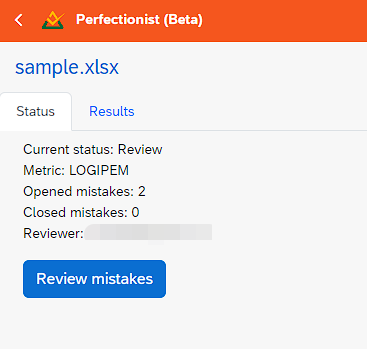
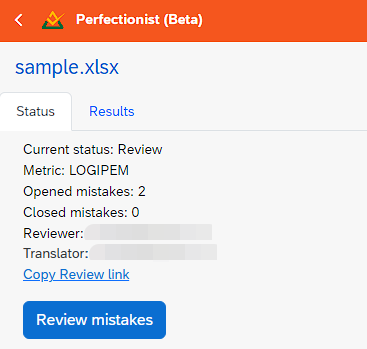
sum

Changed region(s): [[0.0599, 0.6877, 0.4496, 0.9742]]

diff --git a/docs/perfectionist.md b/docs/perfectionist.md
@@ -74,9 +74,9 @@ When the **Sample** button is clicked, **Perfectionist** will generate a randomi
 
 ![perf3](perfnew8.png)
 
-As a **Requestor**, you need to assign a **Reviewer** for each of the project's tasks by submitting their email. The dialog window to do that is called by clicking the **Assign** button in the bottom right of the **Work Area**.
+As a **Requestor**, you need to assign a **Reviewer** for each of the project's tasks by submitting their email. The dialog window to do that is called by clicking the **Assign** button in the bottom right of the **Work Area**. Optionally, you can also assign a **Translator** for the task.
 
-![perf6](perfN6.png)
+![perf3](perfnew9.png)
 
 If there isn't a **Cloud** account for a submitted email, it is created with **Reviewer** rights automatically.
 
@@ -86,17 +86,17 @@ If a task has already been assigned to a **Reviewer**, upon clicking it in the l
 
 ![perf7](perfN7.png)
 
-In the **Results** tab, you will be able to review the body of the task file, with all the errors the **Reviewer** had found marked in the text and summarized on top of the list.
+In the **Results** tab, you will be able to review the body of the task file, with all the errors the **Reviewer** had found marked in the text and summarized on top of the list using by-segment and by-wordcount diagrams.
 
-![perf8](perfN8.png)
+![perf3](perfnew10.png)
 
-From the **Status** tab, by clicking the **Review mistakes** button, you will be able to view each of the errors the **Reviewer** had found in detail, and comment on them as well as edit or delete them, or propose your own full translation for the **Fixed Target** field, if necessary. You can access the **Error Review** dialog window for interacting with an error by clicking on that error in the table.
+From the **Status** tab, by clicking the **Review mistakes** button, you will be able to view each of the errors the **Reviewer** had found in detail, and comment on them as well as edit or delete them, or propose your own full translation for the **Fixed Target** field, if necessary. You can access the **Error Review** dialog window for interacting with an error by double-clicking on that error in the table.
 
-![perf9](perfN9.png)
+![perf3](perfnew11.png)
 
-![perf10](perfN10.png)
+![perf3](perfnew12.png)
 
-When you are ready to complete the task, click on the **Finish Review** button on the bottom right.
+When you consider the task to be complete, click on the **Finish Review** button on the bottom right.
 
 ### Creating Testing Projects
 
